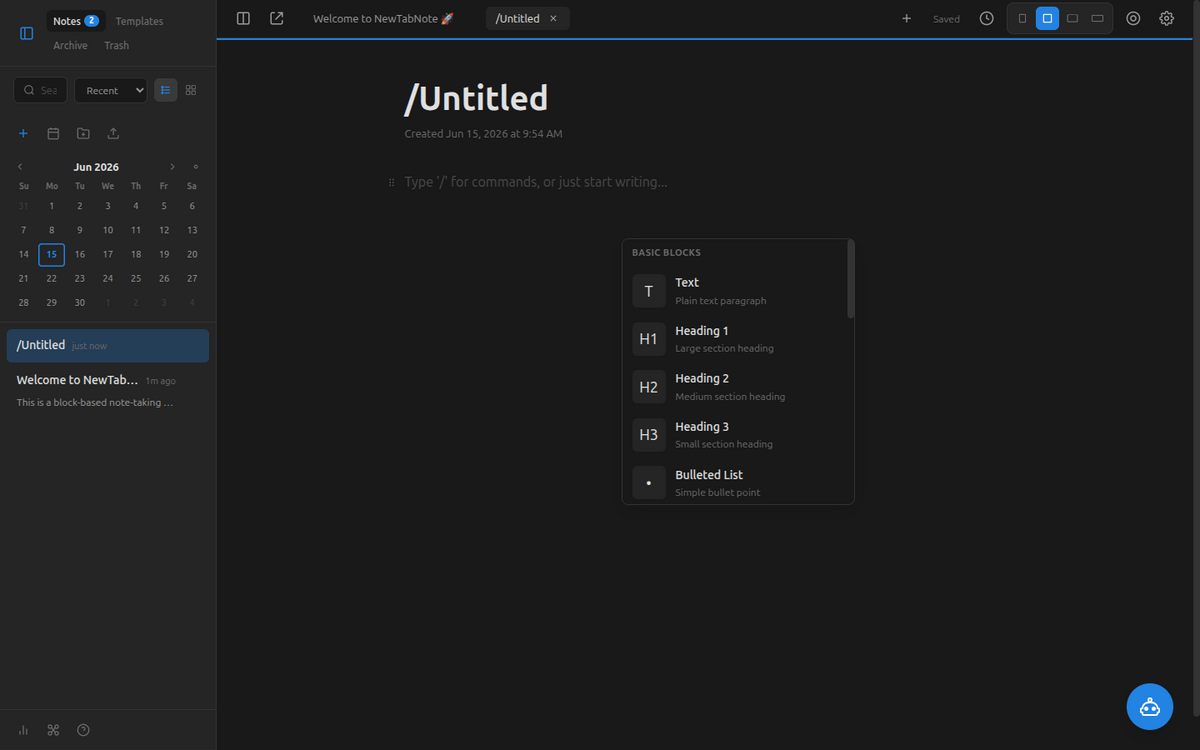
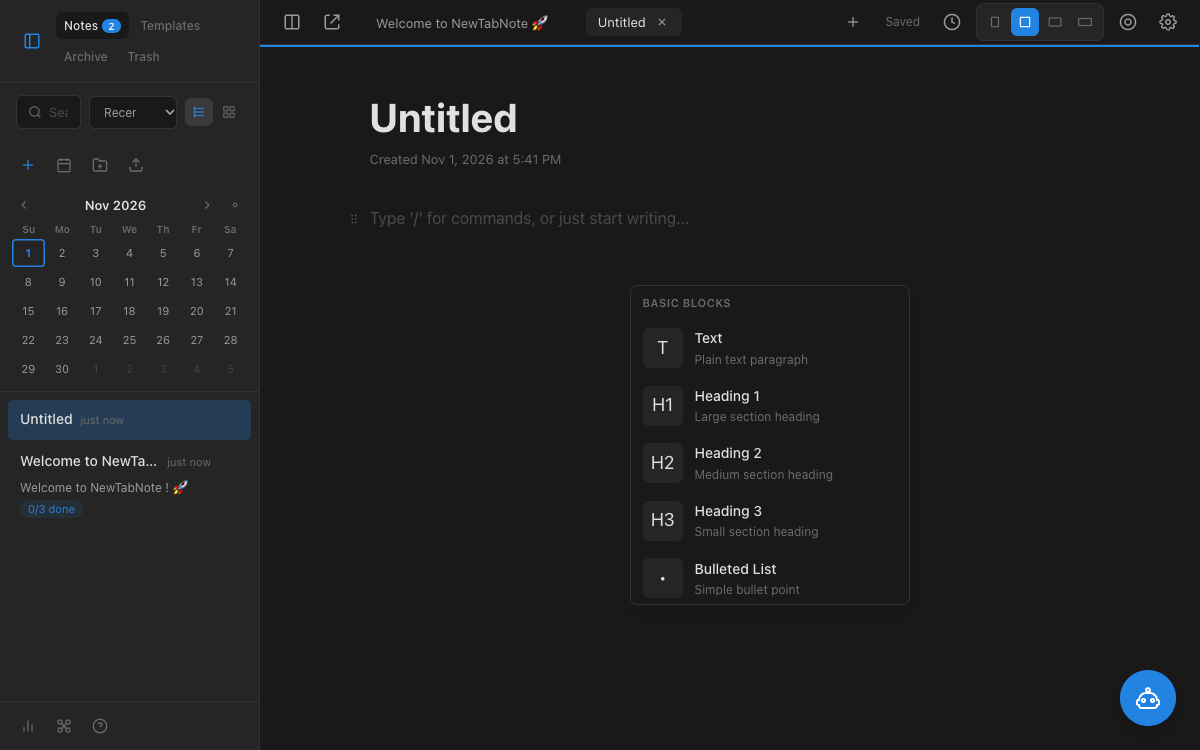
docs: the showcase shows 1.4.3 (NTN-34) (#148)
Refs #34

diff --git a/SHOWCASE.md b/SHOWCASE.md
@@ -2,7 +2,7 @@
 
 Real screenshots of NewTabNote in action — a block-based, Notion-style note editor that replaces your browser's new-tab page. 100% local, privacy-first, with an AI assistant and a fast keyboard-driven editor.
 
-> _Captured from a development build of the extension's new-tab page. The bundled welcome note is shown as sample content._
+> _Captured from the packaged v1.4.3 build of the extension's new-tab page on Nov 1, 2026, on a fresh profile. The bundled welcome note is shown as sample content._
 
 ---
 
@@ -16,7 +16,7 @@ Open a new tab and land in a full block-based workspace: a notes sidebar with se
 
 ## ⚡ Slash Commands
 
-Type `/` in any empty block to bring up the block menu — Text, Headings, lists, code, and 18+ block types in total. Markdown shortcuts (`#`, `-`, `>`, ```` ``` ````) work too.
+Type `/` in any empty block to bring up the block menu — Text, Headings, lists, code, and 18+ block types in total. Pasted Markdown headings, lists, and quotes (`#`, `-`, `>`) turn into blocks too.
 
 ![Slash command block menu](docs/screenshots/02-slash-menu.png)
 
@@ -45,9 +45,9 @@ The editor in both light and dark modes — dark mode is built for nighttime use
 
 | Capability | Detail |
 |------------|--------|
-| **Editor** | Block-based, 18+ block types, slash commands, Markdown shortcuts, drag-and-drop |
+| **Editor** | Block-based, 18+ block types, slash commands, Markdown paste, drag-and-drop |
 | **AI** | Summarize, expand, auto-title; OpenAI / Anthropic / Gemini / local Ollama |
-| **Organization** | Unlimited notes & folders, fuzzy search, tabs, daily notes, backlinks |
+| **Organization** | Unlimited notes & folders, fuzzy title search, tabs, daily notes, backlinks |
 | **Privacy** | 100% local storage (IndexedDB), offline-ready, no tracking |
 | **Customization** | Themes (Light/Dark/System), fonts, adjustable editor width |
 | **Data** | JSON / Markdown export & import |

diff --git a/README.md b/README.md
@@ -12,9 +12,9 @@
 
 ### 📝 Advanced Block-Based Editor
 ![Slash command block menu](docs/screenshots/02-slash-menu.png)
-- **18+ Block Types**: Structured content with headings, tables, code blocks, math equations (LaTeX), and more.
+- **18+ Block Types**: Structured content with headings, tables, code blocks, math equations, and more.
 - **Slash Commands**: Type `/` to instantly access any block type.
-- **Markdown Support**: Use familiar shortcuts like `#`, `-`, `>`, and `` ``` `` for lightning-fast writing.
+- **Markdown Support**: Paste Markdown headings, lists, and quotes (`#`, `-`, `>`), and they turn into blocks.
 - **Drag & Drop**: Effortlessly reorder your thoughts with a simple handle.
 
 ### 🤖 Your Personal AI Assistant
@@ -25,7 +25,7 @@
 
 ### 📂 Professional Organization
 - **Unlimited Notes & Folders**: Organize your life without limits.
-- **Fuzzy Search**: Find any note instantly by searching titles or content.
+- **Fuzzy Search**: Find notes by title, even with a typo, or by the first few words of their text.
 - **Tabbed Interface**: Work on multiple notes simultaneously with a familiar tabbed view.
 - **Daily Notes**: One-click access to your daily journal or scratchpad.
 
